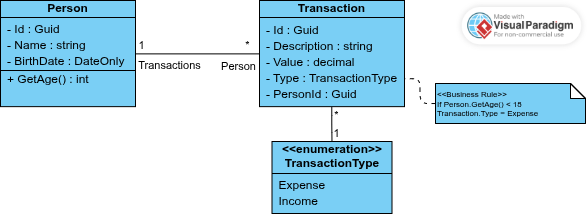
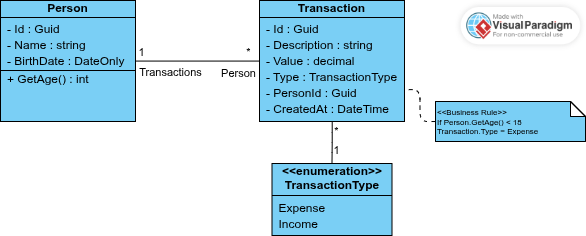
docs: update diagram

Changed region(s): [[0.0, 0.0, 1.0, 1.0], [0.7986, 0.0561, 0.9829, 0.1963]]

diff --git a/docs/diagrama-classes.md b/docs/diagrama-classes.md
@@ -31,6 +31,7 @@ Atributos:
 - Value
 - Type
 - PersonId
+- CreatedAt
 
 ---
 